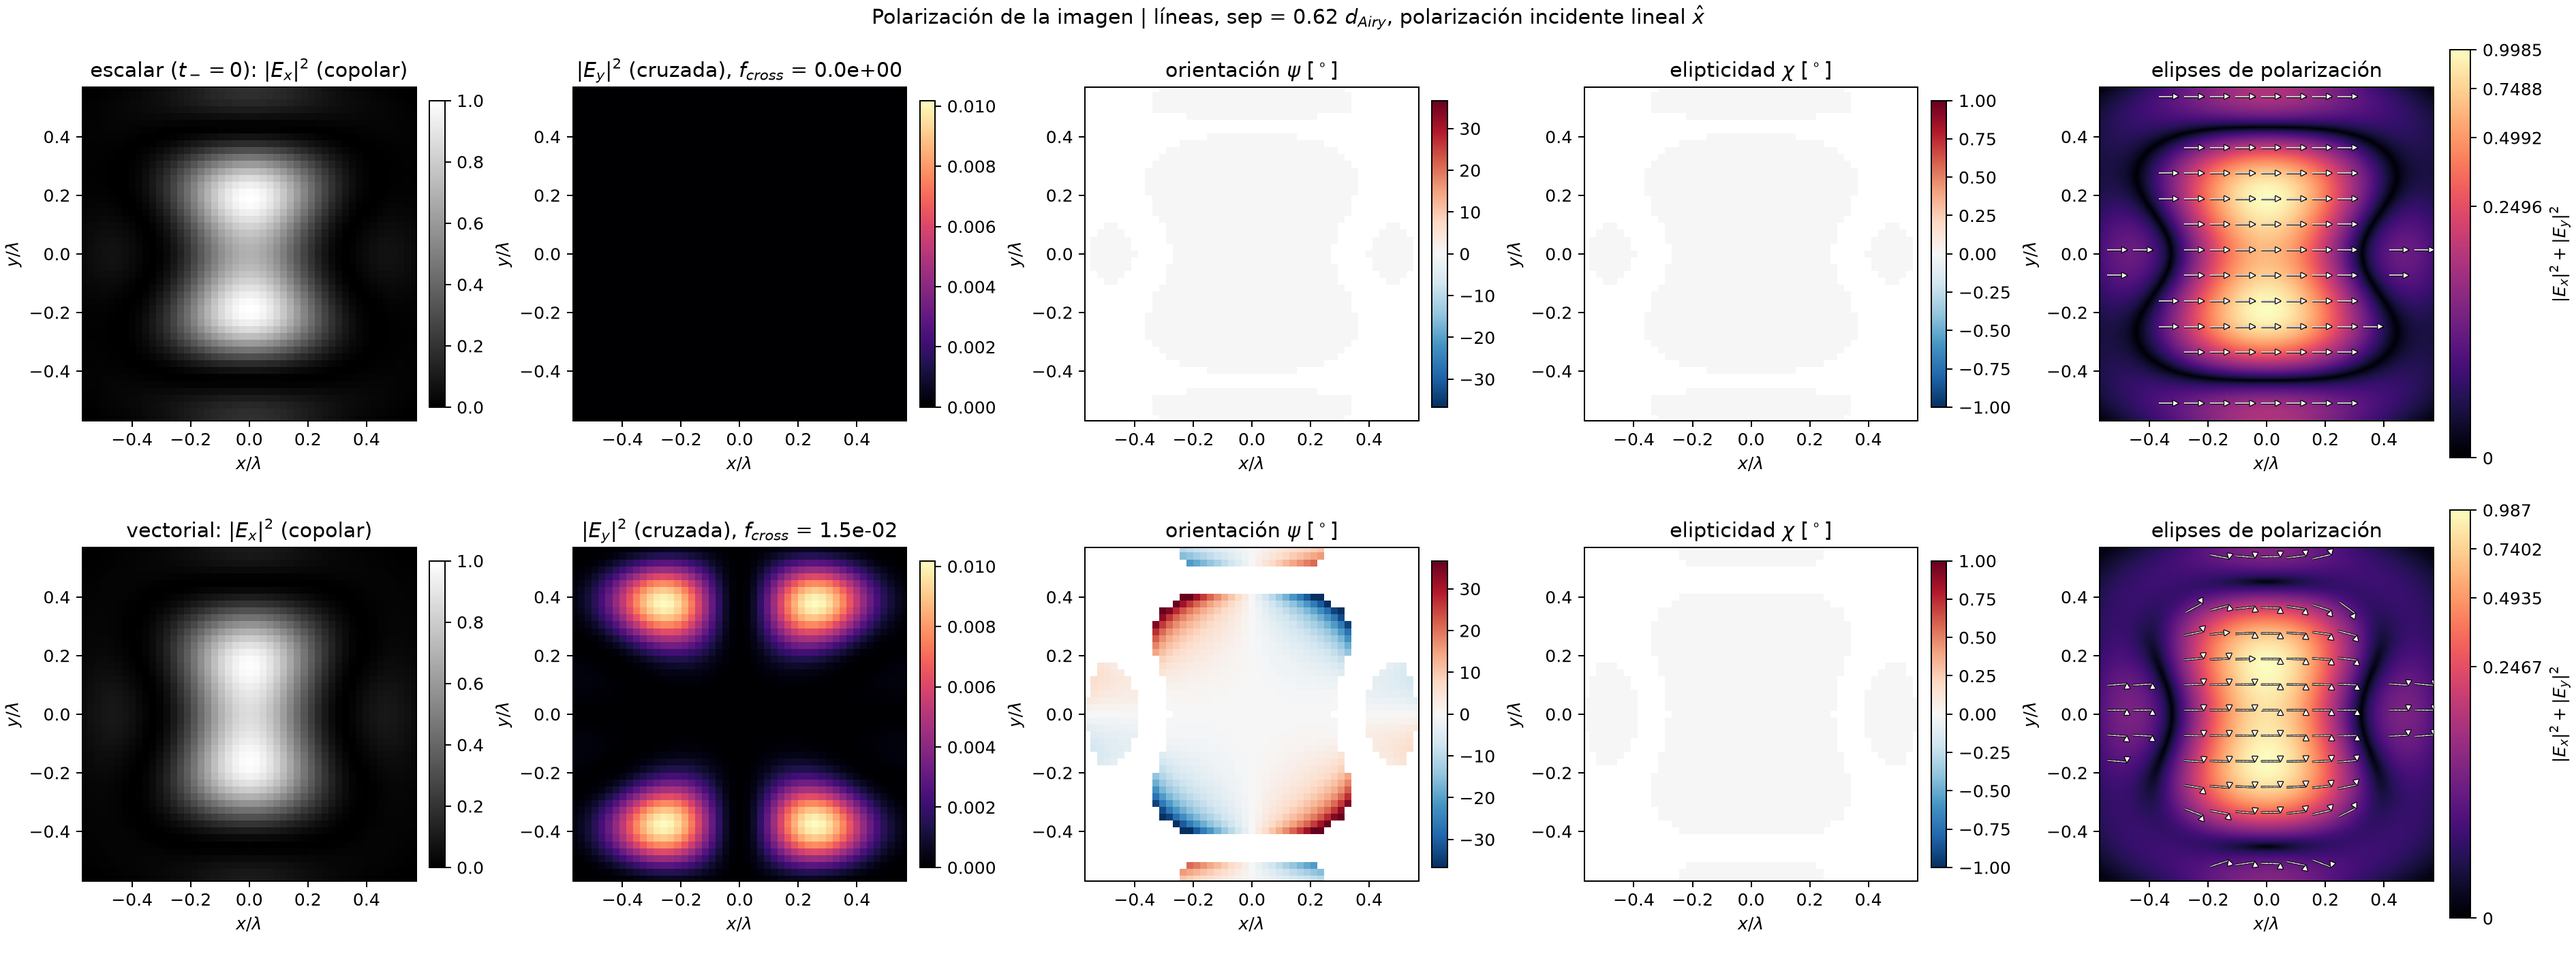
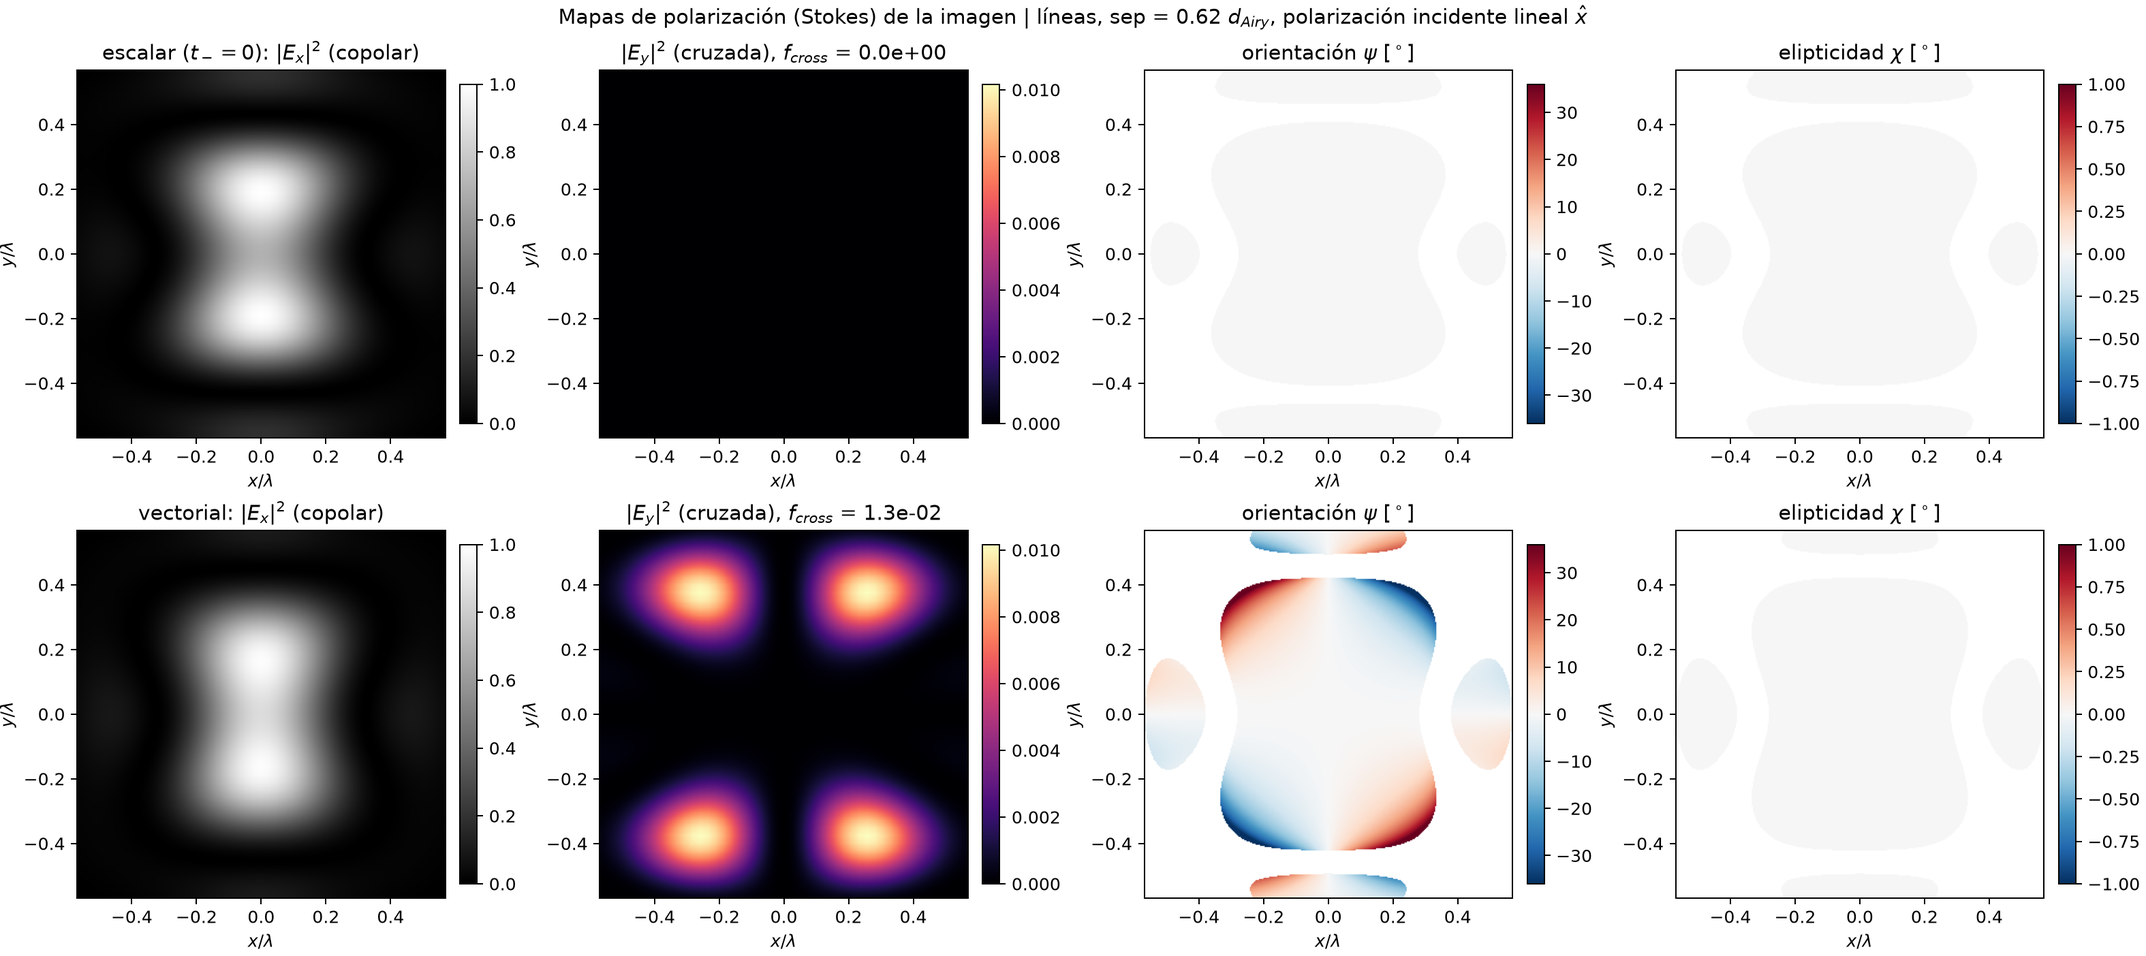
Use the package polarization maps for the image polarization analysis
- Stokes panels (|Ex|^2, |Ey|^2, orientation psi, ellipticity chi) are
  now sampled with vecdiff.polarization.polarization_map_from_field on
  the zoomed analysis window instead of raw native-grid slicing.
- Adds dedicated polarization-ellipse map figures per showcase
  (plot_polarization_map via plot_field_polarization): intensity
  background with local ellipse glyphs, scalar vs vectorial side by
  side, in wavelength units with peak-normalized intensity.
- CONCLUSIONS.md references the new maps; curated copies in results/.

diff --git a/investigation/focal_plane_aperture_study/study_4_resolution_inversion.py b/investigation/focal_plane_aperture_study/study_4_resolution_inversion.py
@@ -32,7 +32,8 @@ import common
 import imaging_common as ic
 from imaging_common import LAM
 
-from vecdiff.polarization import polarization_from_field
+from vecdiff import FieldCartesian, Grid
+from vecdiff.polarization import polarization_map_from_field
 from vecdiff.polarization_visualization import plot_field_polarization
 
 R_A = 10.0
@@ -216,62 +217,65 @@ for feature, figname in (("discs", "fig2_showcase_discs.png"),
 
     # -------------------------------------------------------------- #
     #  Polarization analysis of the showcase images                    #
+    #  (built on the package polarization maps:                        #
+    #   polarization_map_from_field + plot_polarization_map)           #
     # -------------------------------------------------------------- #
-    polfig = "fig4_polarization_discs.png" if feature == "discs" else "fig5_polarization_lines.png"
-    fig, axes = plt.subplots(2, 5, figsize=(21, 7.8), constrained_layout=True)
+    half_win = 1.05 * lim * LAM  # analysis half-window in grid units (mm)
 
-    # Shared color scales taken from the vectorial image.
-    pol_v = polarization_from_field(E_v)
+    # Fields in wavelength units with peak-normalized amplitude, so the map
+    # backgrounds and glyph overlays share a common readable scale.
+    E_s_lam, E_v_lam = (
+        FieldCartesian(x=E.x / np.sqrt(vmax), y=E.y / np.sqrt(vmax),
+                       grid=Grid.from_cartesian(E.grid.X / LAM, E.grid.Y / LAM),
+                       symmetric=False)
+        for E in (E_s, E_v)
+    )
+
+    # Stokes maps resampled on the analysis window with the package helper.
+    pol_maps = {}
+    for tag, E_lam in (("escalar", E_s_lam), ("vectorial", E_v_lam)):
+        xx, yy, pol = polarization_map_from_field(E_lam, half_size=1.05 * lim, n_img=340)
+        pol_maps[tag] = (xx, yy, pol)
+
+    _, _, pol_v = pol_maps["vectorial"]
     bright_v = pol_v.s0 > 0.02 * pol_v.s0.max()
-    iy_lim = float((np.abs(pol_v.ey) ** 2 / vmax).max())
+    iy_lim = float(np.abs(pol_v.ey).max() ** 2)
     psi_lim = max(5.0, float(np.nanpercentile(
         np.abs(np.degrees(np.where(bright_v, pol_v.psi, np.nan))), 99)))
     chi_lim = max(1.0, 1.2 * float(np.nanmax(
         np.abs(np.degrees(np.where(bright_v, pol_v.chi, np.nan))))))
 
-    from vecdiff import FieldCartesian, Grid
+    polfig = "fig4_polarization_discs.png" if feature == "discs" else "fig5_polarization_lines.png"
+    fig, axes = plt.subplots(2, 4, figsize=(17.5, 7.8), constrained_layout=True)
 
-    for row_i, (E, tag) in enumerate(((E_s, "escalar ($t_-=0$)"), (E_v, "vectorial"))):
-        pol = polarization_from_field(E)
-        Ix = np.abs(pol.ex) ** 2
-        Iy = np.abs(pol.ey) ** 2
-        s0 = pol.s0
-        bright = s0 > 0.02 * s0.max()
-        f_cross_img = float(Iy.sum() / (s0.sum() + 1e-300))
+    for row_i, tag in enumerate(("escalar", "vectorial")):
+        xx, yy, pol = pol_maps[tag]
+        ext = [xx.min(), xx.max(), yy.min(), yy.max()]
+        bright = pol.s0 > 0.02 * pol.s0.max()
+        f_cross_img = float((np.abs(pol.ey) ** 2).sum() / (pol.s0.sum() + 1e-300))
+        row_tag = "escalar ($t_-=0$)" if tag == "escalar" else tag
 
-        im = axes[row_i, 0].imshow((Ix / vmax) ** 0.8, extent=extent, origin="lower",
+        im = axes[row_i, 0].imshow((np.abs(pol.ex) ** 2) ** 0.8, extent=ext, origin="lower",
                                    cmap="gray", vmin=0, vmax=1)
-        axes[row_i, 0].set_title(rf"{tag}: $|E_x|^2$ (copolar)")
+        axes[row_i, 0].set_title(rf"{row_tag}: $|E_x|^2$ (copolar)")
         fig.colorbar(im, ax=axes[row_i, 0], fraction=0.046, pad=0.04)
 
-        im = axes[row_i, 1].imshow(Iy / vmax, extent=extent, origin="lower", cmap="magma",
-                                   vmin=0.0, vmax=iy_lim)
+        im = axes[row_i, 1].imshow(np.abs(pol.ey) ** 2, extent=ext, origin="lower",
+                                   cmap="magma", vmin=0.0, vmax=iy_lim)
         axes[row_i, 1].set_title(rf"$|E_y|^2$ (cruzada), $f_{{cross}}$ = {f_cross_img:.1e}")
         fig.colorbar(im, ax=axes[row_i, 1], fraction=0.046, pad=0.04)
 
         psi = np.where(bright, np.degrees(pol.psi), np.nan)
-        im = axes[row_i, 2].imshow(psi, extent=extent, origin="lower",
+        im = axes[row_i, 2].imshow(psi, extent=ext, origin="lower",
                                    cmap="RdBu_r", vmin=-psi_lim, vmax=psi_lim)
         axes[row_i, 2].set_title(r"orientación $\psi$ [$^\circ$]")
         fig.colorbar(im, ax=axes[row_i, 2], fraction=0.046, pad=0.04)
 
         chi = np.where(bright, np.degrees(pol.chi), np.nan)
-        im = axes[row_i, 3].imshow(chi, extent=extent, origin="lower",
+        im = axes[row_i, 3].imshow(chi, extent=ext, origin="lower",
                                    cmap="RdBu_r", vmin=-chi_lim, vmax=chi_lim)
         axes[row_i, 3].set_title(r"elipticidad $\chi$ [$^\circ$]")
         fig.colorbar(im, ax=axes[row_i, 3], fraction=0.046, pad=0.04)
-
-        # Glyph panel in wavelength units with peak-normalized intensity.
-        E_lam = FieldCartesian(
-            x=E.x / np.sqrt(vmax), y=E.y / np.sqrt(vmax),
-            grid=Grid.from_cartesian(E.grid.X / LAM, E.grid.Y / LAM),
-            symmetric=False)
-        plot_field_polarization(
-            E_lam, half_size=1.05 * lim, n_img=220, sampling="cartesian",
-            target_ellipses=13, min_intensity_fraction=0.02,
-            ax=axes[row_i, 4],
-        )
-        axes[row_i, 4].set_title("elipses de polarización")
 
         for axi in axes[row_i, :]:
             axi.set_xlim(-lim, lim)
@@ -280,10 +284,33 @@ for feature, figname in (("discs", "fig2_showcase_discs.png"),
             axi.set_ylabel(r"$y/\lambda$")
 
     fig.suptitle(
-        rf"Polarización de la imagen | {label}, sep = {s_frac:.2f} $d_{{Airy}}$, "
+        rf"Mapas de polarización (Stokes) de la imagen | {label}, sep = {s_frac:.2f} $d_{{Airy}}$, "
         r"polarización incidente lineal $\hat{x}$")
     fig.savefig(out / polfig, dpi=180)
     plt.close(fig)
-    print(f"{feature}: análisis de polarización -> {polfig}")
+    print(f"{feature}: mapas de Stokes -> {polfig}")
+
+    # Dedicated polarization-ellipse maps (plot_polarization_map via
+    # plot_field_polarization: intensity background + local ellipse glyphs).
+    mapfig = "fig6_polmap_discs.png" if feature == "discs" else "fig7_polmap_lines.png"
+    fig, axes = plt.subplots(1, 2, figsize=(13.6, 6.4), constrained_layout=True)
+    for axi, (tag, E_lam) in zip(axes, (("escalar ($t_-=0$)", E_s_lam),
+                                        ("vectorial", E_v_lam))):
+        plot_field_polarization(
+            E_lam, half_size=1.05 * lim, n_img=300, sampling="cartesian",
+            target_ellipses=17, min_intensity_fraction=0.01,
+            ax=axi,
+        )
+        axi.set_title(tag)
+        axi.set_xlim(-lim, lim)
+        axi.set_ylim(-lim, lim)
+        axi.set_xlabel(r"$x/\lambda$")
+        axi.set_ylabel(r"$y/\lambda$")
+    fig.suptitle(
+        rf"Mapa de polarización de la imagen | {label}, sep = {s_frac:.2f} $d_{{Airy}}$, "
+        r"polarización incidente lineal $\hat{x}$")
+    fig.savefig(out / mapfig, dpi=200)
+    plt.close(fig)
+    print(f"{feature}: mapa de elipses -> {mapfig}")
 
 print(f"Done. Outputs in {out}")

diff --git a/investigation/focal_plane_aperture_study/CONCLUSIONS.md b/investigation/focal_plane_aperture_study/CONCLUSIONS.md
@@ -168,12 +168,15 @@ Criterio de distinguibilidad: profundidad de valle C ≥ C_th.
 
 ### Análisis de polarización de las imágenes
 
-Para cada escaparate se analiza el estado de polarización de la imagen
-(componentes, parámetros de Stokes → orientación ψ y elipticidad χ, y elipses
-locales con las utilidades de `vecdiff.polarization`):
+Para cada escaparate se analiza el estado de polarización de la imagen con los
+mapas de polarización del paquete (`polarization_map_from_field` para los mapas
+de Stokes — orientación ψ y elipticidad χ — y `plot_polarization_map`, vía
+`plot_field_polarization`, para las elipses locales sobre la intensidad):
 
-![polarización discos](results/s4_polarization_discs.png)
-![polarización líneas](results/s4_polarization_lines.png)
+![Stokes discos](results/s4_polarization_discs.png)
+![mapa de polarización discos](results/s4_polmap_discs.png)
+![Stokes líneas](results/s4_polarization_lines.png)
+![mapa de polarización líneas](results/s4_polmap_lines.png)
 
 - **Imagen escalar:** polarización uniforme — E_y ≡ 0, ψ ≡ 0, χ ≡ 0 en todo el
   plano; las elipses son segmentos horizontales alineados con la polarización
